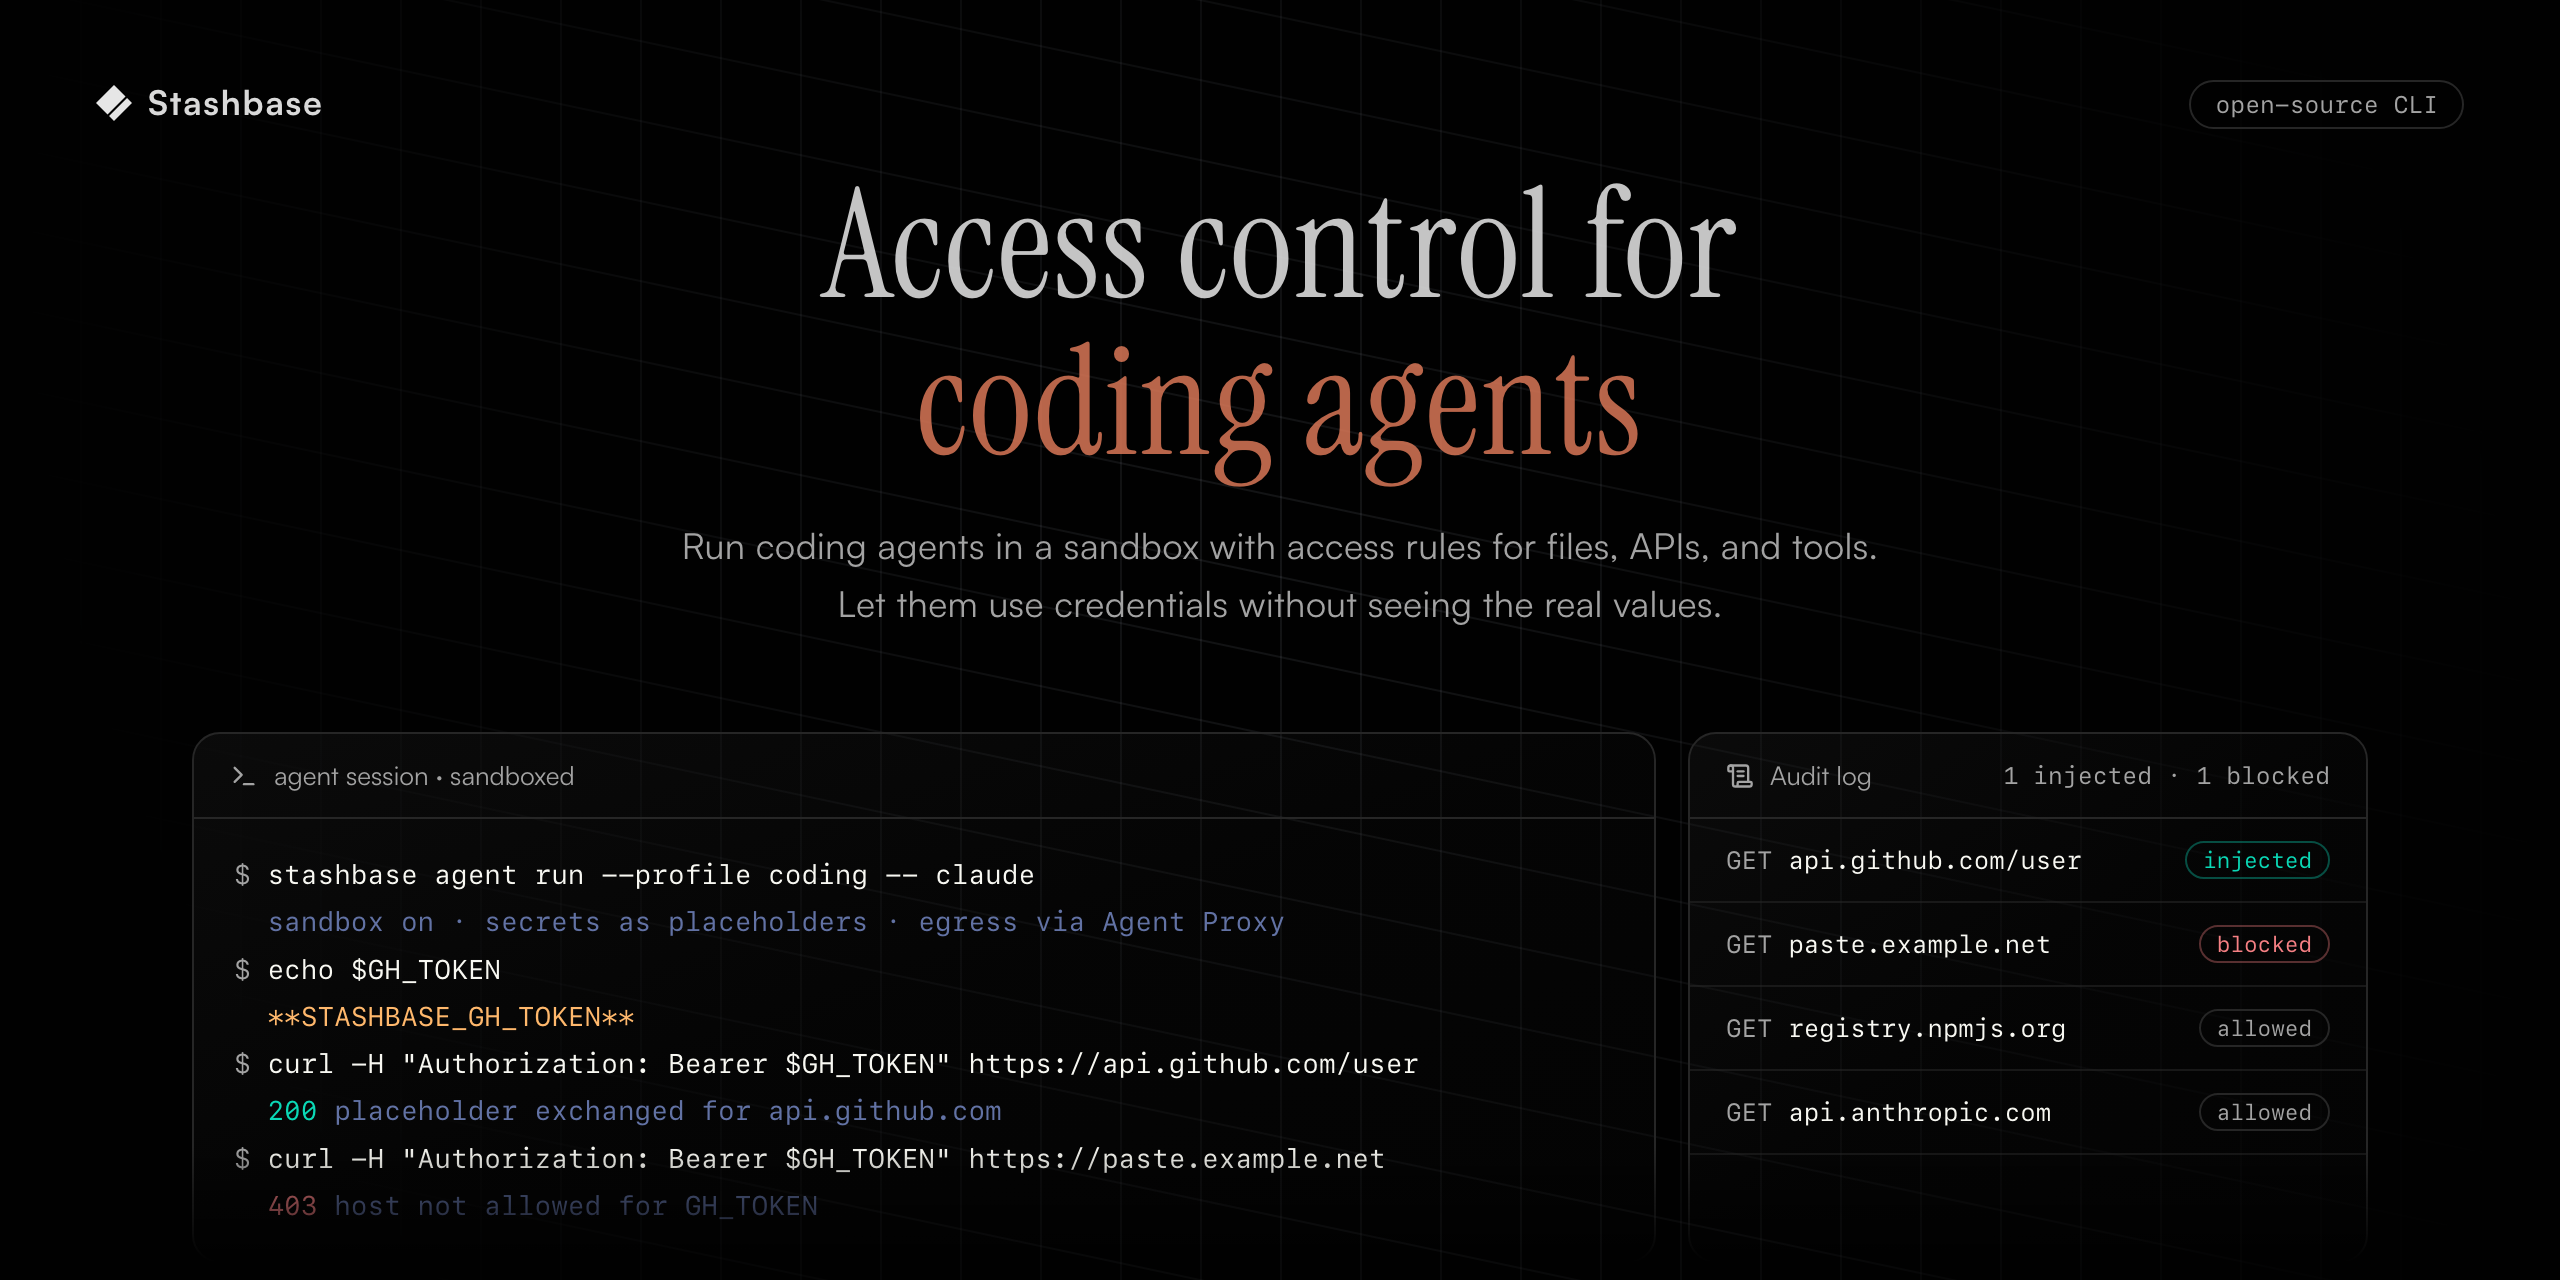
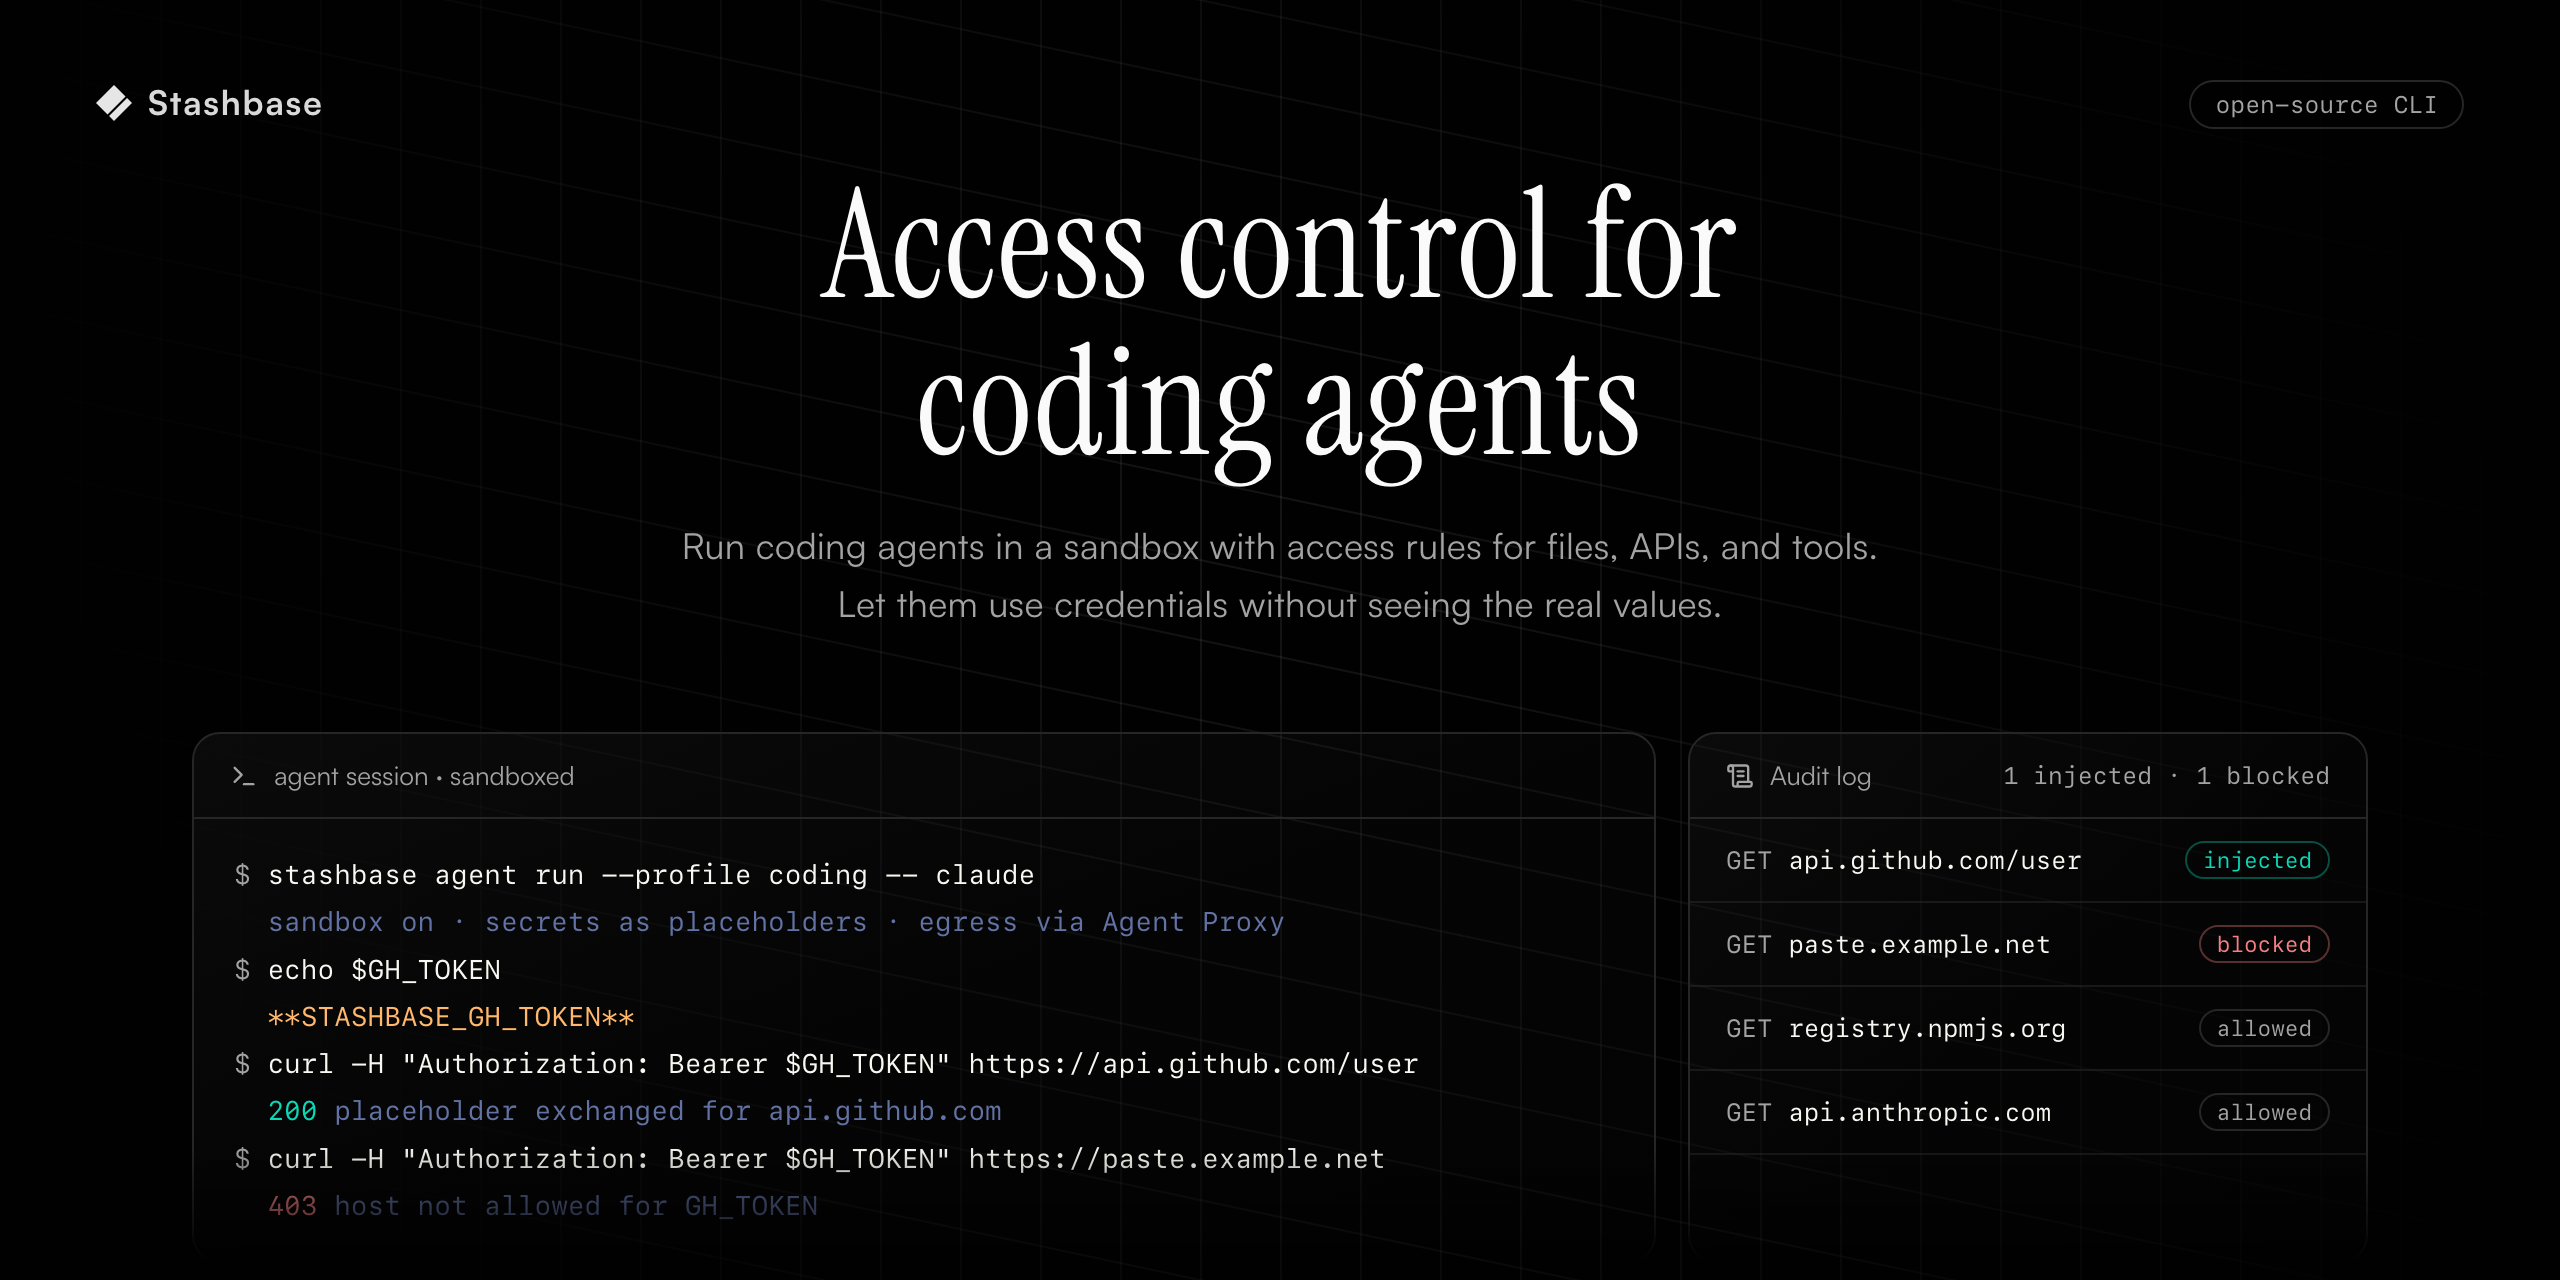
docs: use one headline color in README hero, matching the website

Changed region(s): [[0.3125, 0.1562, 0.6875, 0.25], [0.3438, 0.2812, 0.6562, 0.375]]

diff --git a/docs/assets/readme-hero.html b/docs/assets/readme-hero.html
@@ -11,7 +11,6 @@
     --border: hsl(0 0% 14.9%);
     --fg: hsl(0 0% 90%);
     --muted: hsl(0 0% 63.9%);
-    --accent: #D97757;
     --teal: #0bd8b6;
     --orange: #ffb86c;
     --red: #f68084;
@@ -39,8 +38,7 @@
 
   .hero { position: absolute; top: 84px; left: 0; right: 0; text-align: center; }
   h1 { font-family: "Instrument Serif", Georgia, serif; font-weight: 400; font-size: 76px;
-    line-height: 1.03; letter-spacing: .01em; opacity: .85; }
-  h1 span { color: var(--accent); }
+    line-height: 1.03; letter-spacing: .01em; color: hsl(0 0% 98%); }
   .sub { margin: 18px auto 0; max-width: 620px; font-size: 18px; line-height: 1.6; color: var(--muted); letter-spacing: .01em; }
 
   .stage { position: absolute; top: 366px; left: 50%; transform: translateX(-50%);
@@ -76,7 +74,7 @@
   <div class="tag">open-source CLI</div>
 
   <div class="hero">
-    <h1>Access control for<br><span>coding agents</span></h1>
+    <h1>Access control for<br>coding agents</h1>
     <p class="sub">Run coding agents in a sandbox with access rules for files, APIs, and tools. Let them use credentials without seeing the real values.</p>
   </div>
 
